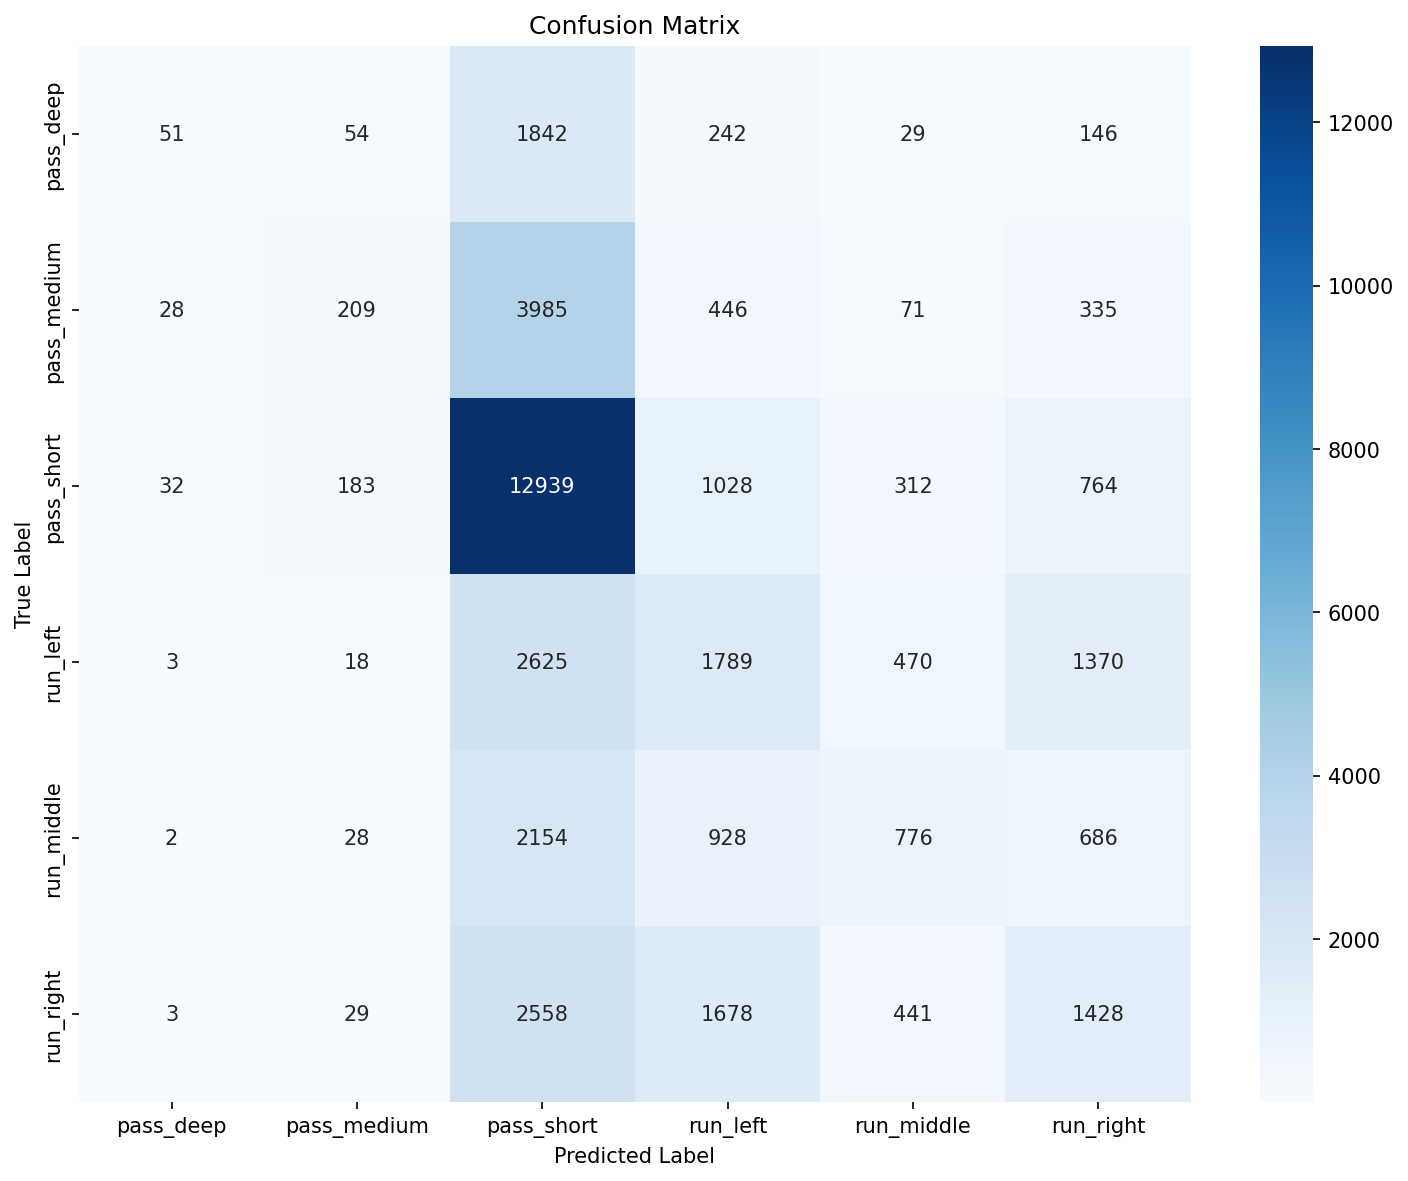
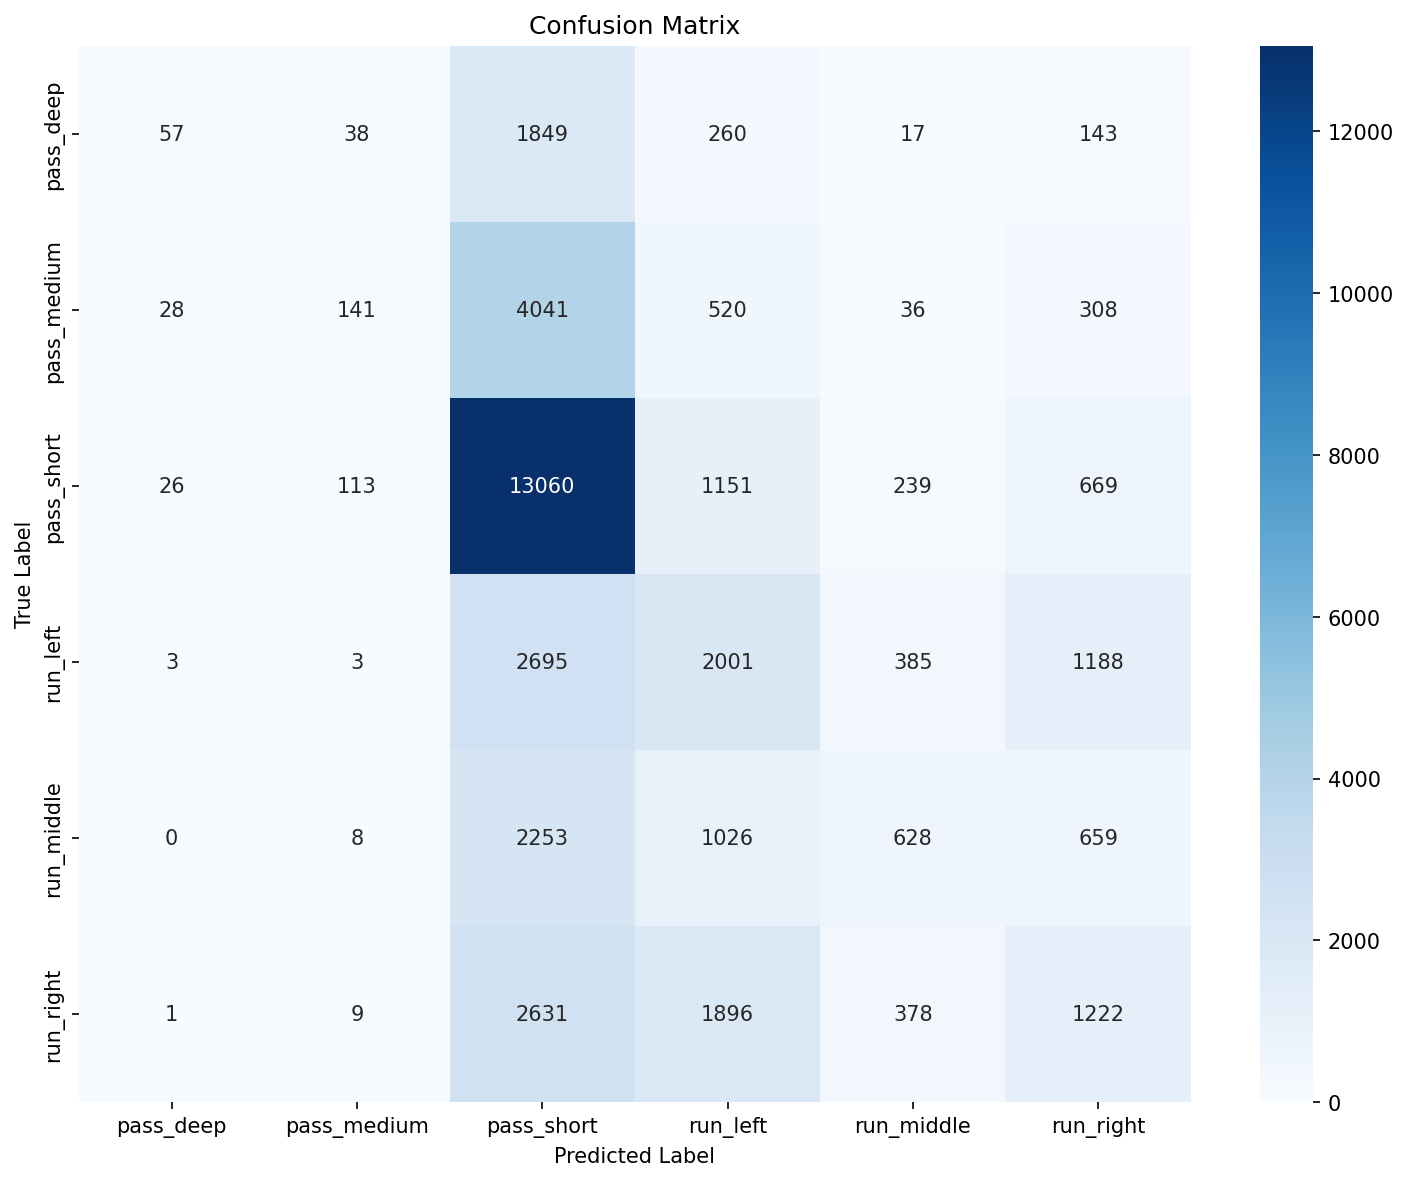
new weights + L1 regularization to control shotgun flag

diff --git a/train_model.py b/train_model.py
@@ -12,11 +12,47 @@ import seaborn as sns
 from utils.data_loader import load_nfl_data
 from utils.feature_engineering import engineer_features
 
+def calculate_sample_weights(features):
+    weights = np.ones(len(features))
+    
+    half_sec = features['half_seconds_remaining']
+    game_sec = features['game_seconds_remaining']
+    score_diff = features['score_differential']
+    timeouts = features['posteam_timeouts_remaining']
+    
+    # 2-min off
+    two_min_drill = (half_sec < 120) & (abs(score_diff) <= 8)
+    weights[two_min_drill] *= 2.5
+    
+    # must move
+    desperation = (game_sec < 120) & (score_diff < -3) & (timeouts <= 1)
+    weights[desperation] *= 4.0
+    
+    # must-score
+    must_score = (game_sec < 300) & (score_diff < 0)
+    weights[must_score] *= 2.0
+    
+    # 4-min off
+    run_clock = (game_sec < 300) & (score_diff > 10)
+    weights[run_clock] *= 1.5
+    
+    # 4th down
+    fourth_down = features['is_fourth_down'] == 1
+    weights[fourth_down] *= 2.0
+    
+    print(f"\nSample Weight Statistics:")
+    print(f"  Default weight: {(weights == 1.0).sum()} samples")
+    print(f"  Two-minute drill (2.5x): {two_min_drill.sum()} samples")
+    print(f"  Desperation (4.0x): {desperation.sum()} samples")
+    print(f"  Must-score (2.0x): {must_score.sum()} samples")
+    print(f"  Run clock (1.5x): {run_clock.sum()} samples")
+    print(f"  Fourth down (2.0x): {fourth_down.sum()} samples")
+    
+    return weights
+
 def train_model():
-    print("Loading data for 2018-2023...")
     df = load_nfl_data([2018, 2019, 2020, 2021, 2022, 2023])
     
-    print("Engineering features...")
     features = engineer_features(df)
     
     le = LabelEncoder()
@@ -27,42 +63,50 @@ def train_model():
     X = features.drop(['play_label', 'play_label_encoded'], axis=1)
     y = features['play_label_encoded']
     
-    X_train, X_test, y_train, y_test = train_test_split(
-        X, y, test_size=0.2, random_state=42, stratify=y
+    sample_weights = calculate_sample_weights(features)
+    
+    X_train, X_test, y_train, y_test, weights_train, weights_test = train_test_split(
+        X, y, sample_weights, test_size=0.2, random_state=42, stratify=y
     )
-    
-    print(f"\nTraining set: {len(X_train)} plays")
-    print(f"Test set: {len(X_test)} plays")
-    print(f"Number of features: {X.shape[1]}")
-    
-    # train XGBoost
-    print("\nTraining XGBoost multi-class classifier...")
+
     model = XGBClassifier(
-        n_estimators=200,
+        n_estimators=300,
         max_depth=8,
-        learning_rate=0.1,
+        learning_rate=0.05,
+        min_child_weight=20,
+        gamma=2.0,
+        subsample=0.8,
+        colsample_bytree=0.6,
+        colsample_bylevel=0.6,
+        max_delta_step=1,
         objective='multi:softprob',
         random_state=42,
         n_jobs=-1,
-        eval_metric='mlogloss'
+        eval_metric='mlogloss',
+        reg_alpha=1.0,
+        reg_lambda=5.0,
     )
     
-    model.fit(X_train, y_train)
+    model.fit(
+        X_train, y_train, 
+        sample_weight=weights_train,
+        eval_set=[(X_test, y_test)],
+        sample_weight_eval_set=[weights_test],
+        verbose=50
+    )
     
-    # eval
     y_pred = model.predict(X_test)
     accuracy = accuracy_score(y_test, y_pred)
     
-    print(f"\n{'='*60}")
-    print(f"Test Accuracy: {accuracy:.2%}")
-    print(f"{'='*60}")
+    weighted_acc = accuracy_score(y_test, y_pred, sample_weight=weights_test)
+    print(f"Test Accuracy (unweighted): {accuracy:.2%}")
+    print(f"Test Accuracy (weighted): {weighted_acc:.2%}")
     print("\nClassification Report:")
     print(classification_report(y_test, y_pred, target_names=le.classes_))
-    
+
     cm = confusion_matrix(y_test, y_pred)
     plt.figure(figsize=(10, 8))
-    sns.heatmap(cm, annot=True, fmt='d', cmap='Blues', 
-                xticklabels=le.classes_, yticklabels=le.classes_)
+    sns.heatmap(cm, annot=True, fmt='d', cmap='Blues', xticklabels=le.classes_, yticklabels=le.classes_)
     plt.title('Confusion Matrix')
     plt.ylabel('True Label')
     plt.xlabel('Predicted Label')
@@ -70,16 +114,11 @@ def train_model():
     
     os.makedirs('models', exist_ok=True)
     plt.savefig('models/confusion_matrix.png', dpi=150, bbox_inches='tight')
-    print("\n✅ Confusion matrix saved to models/confusion_matrix.png")
     
-    # feature importance
     importance_df = pd.DataFrame({
         'feature': X.columns,
         'importance': model.feature_importances_
     }).sort_values('importance', ascending=False)
-    
-    print("\nTop 15 Most Important Features:")
-    print(importance_df.head(15))
     
     plt.figure(figsize=(10, 8))
     top_features = importance_df.head(20)
@@ -90,14 +129,12 @@ def train_model():
     plt.gca().invert_yaxis()
     plt.tight_layout()
     plt.savefig('models/feature_importance.png', dpi=150, bbox_inches='tight')
-    print("✅ Feature importance plot saved to models/feature_importance.png")
     
     joblib.dump(model, 'models/play_predictor.pkl')
     joblib.dump(le, 'models/label_encoder.pkl')
     joblib.dump(X.columns.tolist(), 'models/feature_names.pkl')
     joblib.dump(importance_df, 'models/feature_importance.pkl')
     
-    print("\n✅ Model and metadata saved!")
     
     return model, le, X.columns.tolist()
 

diff --git a/utils/feature_engineering.py b/utils/feature_engineering.py
@@ -3,7 +3,6 @@ import numpy as np
 
 def create_play_labels(df):
     """Create more granular play type labels"""
-    
     df['play_label'] = 'other'
     
     run_mask = df['play_type'] == 'run'
@@ -18,10 +17,7 @@ def create_play_labels(df):
     
     return df
 
-def engineer_features(df):
-    """Create comprehensive features for model training"""
-    
-    print("Creating play labels...")
+def engineer_features(df):    
     df = create_play_labels(df)
     
     valid_labels = ['run_left', 'run_middle', 'run_right', 
@@ -32,7 +28,6 @@ def engineer_features(df):
     
     features = pd.DataFrame()
     
-    # basic situation features
     features['down'] = df['down']
     features['ydstogo'] = df['ydstogo']
     features['yardline_100'] = df['yardline_100']
@@ -43,7 +38,6 @@ def engineer_features(df):
     features['posteam_timeouts_remaining'] = df['posteam_timeouts_remaining'].fillna(3)
     features['defteam_timeouts_remaining'] = df['defteam_timeouts_remaining'].fillna(3)
     
-    # personnel
     if 'offense_personnel' in df.columns:
         features['num_rbs'] = df['offense_personnel'].str.extract('(\d+) RB')[0].fillna(1).astype(float)
         features['num_tes'] = df['offense_personnel'].str.extract('(\d+) TE')[0].fillna(1).astype(float)
@@ -54,13 +48,11 @@ def engineer_features(df):
         features['def_lb'] = df['defense_personnel'].str.extract('(\d+) LB')[0].fillna(4).astype(float)
         features['def_db'] = df['defense_personnel'].str.extract('(\d+) DB')[0].fillna(3).astype(float)
     
-    # formation
     if 'offense_formation' in df.columns:
         formation_dummies = pd.get_dummies(df['offense_formation'], prefix='form')
         top_formations = formation_dummies.sum().nlargest(5).index
         features = pd.concat([features, formation_dummies[top_formations]], axis=1)
     
-    # situational flags
     features['is_redzone'] = (df['yardline_100'] <= 20).astype(int)
     features['is_goalline'] = (df['yardline_100'] <= 5).astype(int)
     features['is_third_down'] = (df['down'] == 3).astype(int)
@@ -71,27 +63,15 @@ def engineer_features(df):
     
     if 'wp' in df.columns:
         features['win_probability'] = df['wp'].fillna(0.5)
-    
     if 'ep' in df.columns:
         features['expected_points'] = df['ep'].fillna(0)
     
-    # team features
     if 'posteam' in df.columns:
         team_dummies = pd.get_dummies(df['posteam'], prefix='team')
-        features = pd.concat([features, team_dummies], axis=1)
+        top_teams = team_dummies.sum().nlargest(10).index
+        features = pd.concat([features, team_dummies[top_teams]], axis=1)
     
     features['play_label'] = df['play_label']
-    
     features = features.dropna()
-    
-    print(f"Engineered {len(features)} plays with {len(features.columns)-1} features")
-    print(f"Final play distribution:\n{features['play_label'].value_counts()}\n")
-    
+        
     return features
-
-if __name__ == "__main__":
-    from data_loader import load_nfl_data
-    df = load_nfl_data([2022, 2023])
-    features = engineer_features(df)
-    print(features.head())
-    print(f"\nFeature columns: {features.columns.tolist()}")

diff --git a/utils/data_loader.py b/utils/data_loader.py
@@ -2,19 +2,8 @@ import nfl_data_py as nfl
 import pandas as pd
 
 def load_nfl_data(years=[2022, 2023]):
-    """Load NFL play-by-play data"""
-    print(f"Loading data for years: {years}")
     df = nfl.import_pbp_data(years)
-    print(f"Loaded {len(df)} plays")
     return df
 
-def quick_explore(df):
-    """Quick data exploration"""
-    print(f"Shape: {df.shape}")
-    print(f"\nColumns: {df.columns.tolist()[:20]}...")
-    print(f"\nPlay types:\n{df['play_type'].value_counts()}")
-    print(f"\nNull values:\n{df.isnull().sum().sort_values(ascending=False).head(10)}")
-    
 if __name__ == "__main__":
     df = load_nfl_data([2023])
-    quick_explore(df)

diff --git a/README.md b/README.md
@@ -56,20 +56,6 @@ python train_model.py
 streamlit run app.py
 ```
 
-## 📁 Project Structure
-```
-nfl-play-predictor/
-├── data/              # NFL play-by-play data (git-ignored)
-├── models/            # Trained models and visualizations
-├── utils/             
-│   ├── data_loader.py          # Data fetching from nflfastR
-│   └── feature_engineering.py  # Feature creation pipeline
-├── app.py             # Streamlit web application
-├── train_model.py     # Model training script
-├── requirements.txt   # Python dependencies
-└── README.md
-```
-
 ## 🛠 Technical Details
 
 ### Model
